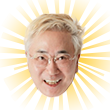
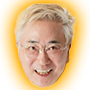
Changed some sprites, fix some functions

diff --git a/Cocos2Dx/Classes/TPMainScreen.cpp b/Cocos2Dx/Classes/TPMainScreen.cpp
@@ -32,10 +32,10 @@ bool TPMainScreen::init(bool isGameOver, int score) {
         CCLog("Score: %i", gameScoreOfNow);
     }
     
-    CocosDenshion::SimpleAudioEngine::sharedEngine()->playBackgroundMusic("", true);
+    CocosDenshion::SimpleAudioEngine::sharedEngine()->playBackgroundMusic("PoppoMelody.mp3", true);
     
     //===================== New UI =========================
-    heartCount = 1;
+    heartCount = TPUser::shareTPUser()->getUserHeart();
     itemShadeArray = new CCArray;
     
     newBackground = CCSprite::create("poppo_background.png");
@@ -48,18 +48,28 @@ bool TPMainScreen::init(bool isGameOver, int score) {
                                       winSize.height / 2 + 50));
     this->addChild(rankingContainer, 101, 101);
     
+    rankingBestContainer = CCSprite::create("poppo_empty_container.png");
+    rankingBestContainer->setPosition(ccp(winSize.width / 2,
+                                          winSize.height / 2 + 50));
+    this->addChild(rankingBestContainer, 102, 186);
+    
+    rankingLine = CCSprite::create("poppo_ranking_line.png");
+    rankingLine->setPosition(ccp(rankingBestContainer->getContentSize().width / 2,
+                                 rankingBestContainer->getContentSize().height / 2 - 100));
+    rankingBestContainer->addChild(rankingLine, 103, 185);
+    
     rankingBestScoreLabel = CCSprite::create("BestScore.png");
-    rankingBestScoreLabel->setPosition(ccp(rankingContainer->getContentSize().width / 4 - 40,
-                                           rankingContainer->getContentSize().height / 5 + 30));
-    rankingContainer->addChild(rankingBestScoreLabel, 103, 182);
+    rankingBestScoreLabel->setPosition(ccp(rankingBestContainer->getContentSize().width / 4 - 40,
+                                           rankingBestContainer->getContentSize().height / 5 + 30));
+    rankingBestContainer->addChild(rankingBestScoreLabel, 103, 182);
     
     char playerName[100];
     sprintf(playerName, "%s", "Player1");
     rankingPlayerName = CCLabelTTF::create(playerName, "Berlin Sans FB", 30,
                                            CCSizeMake(200, 50), kCCTextAlignmentLeft);
-    rankingPlayerName->setPosition(ccp(rankingContainer->getContentSize(). width / 2,
-                                       rankingContainer->getContentSize().height / 5));
-    rankingContainer->addChild(rankingPlayerName, 103, 183);
+    rankingPlayerName->setPosition(ccp(rankingBestContainer->getContentSize(). width / 2,
+                                       rankingBestContainer->getContentSize().height / 5));
+    rankingBestContainer->addChild(rankingPlayerName, 103, 183);
     
     char charBestScore[100];
     sprintf(charBestScore,"%i",TPUser::shareTPUser()->getUserScore());
@@ -67,7 +77,7 @@ bool TPMainScreen::init(bool isGameOver, int score) {
                                                 CCSizeMake(200, 50), kCCTextAlignmentLeft);
     rankingPlayerBestScore->setPosition(ccp(rankingContainer->getContentSize(). width / 2,
                                             rankingContainer->getContentSize().height / 5 - 30));
-    rankingContainer->addChild(rankingPlayerBestScore, 103, 184);
+    rankingBestContainer->addChild(rankingPlayerBestScore, 103, 184);
     
     heartContainer = CCSprite::create("poppo_hearts_container.png");
     heartContainer->setPosition(ccp(rankingContainer->getContentSize().width / 2,
@@ -112,6 +122,7 @@ bool TPMainScreen::init(bool isGameOver, int score) {
     heartContainer->addChild(heartPlus, 103, 109);
     
     heartChargeCount = 5 - heartCount;
+    CCLog("Heart count %i", heartChargeCount);
     sprintf(heartViewChar, "%i", heartChargeCount);
     heartChargedLabel = CCLabelTTF::create(heartViewChar, "", 40);
     heartChargedLabel->setPosition(ccp(heartContainer->getContentSize().width - 200,
@@ -528,6 +539,7 @@ bool TPMainScreen::init(bool isGameOver, int score) {
     
     if (gameOverIsOn) {
         networkContainer->setVisible(false);
+        rankingBestContainer->setVisible(false);
         playBtn->setVisible(false);
         
         scoreContainer = CCSprite::create("poppo_empty_container.png");
@@ -592,7 +604,7 @@ void TPMainScreen::ccTouchEnded(CCTouch *touch, CCEvent *event) {
         }
         
         CCRect chargeBtnRect = TPMainScreen::boundingBoxWorldSpace(heartContainer, heartPlus);
-        if (chargeBtnRect.containsPoint(touchLoc)) {
+        if (chargeBtnRect.containsPoint(touchLoc) && heartCount < 5) {
             chargeOn = true;
             TPMainScreen::setCharge();
         }
@@ -601,6 +613,7 @@ void TPMainScreen::ccTouchEnded(CCTouch *touch, CCEvent *event) {
         if (startRect.containsPoint(touchLoc) && !itemOn && !settingOn && !chargeOn && !tutorialOn && !gameOverIsOn) {
             itemOn = true;
             TPMainScreen::setItem();
+            rankingBestContainer->setVisible(false);
             networkContainer->setVisible(false);
             return;
         }
@@ -613,7 +626,7 @@ void TPMainScreen::ccTouchEnded(CCTouch *touch, CCEvent *event) {
             
             playBtn->setVisible(true);
             networkContainer->setVisible(true);
-            
+            rankingBestContainer->setVisible(true);
             gameOverIsOn = false;
             return;
         }
@@ -709,6 +722,10 @@ void TPMainScreen::ccTouchEnded(CCTouch *touch, CCEvent *event) {
             heartCount = 5;
             TPUser::shareTPUser()->setUserHeart(heartCount);
             TPMainScreen::setupHearts();
+            
+            heartChargeCount = 5 - heartCount;
+            sprintf(heartViewChar, "%i", heartChargeCount);
+            heartChargedLabel->setString(heartViewChar);
         }
         
         CCRect chargeCcl2Rect = TPMainScreen::boundingBoxWorldSpace(chargeWin3, chargeCclBtn3);
@@ -1037,6 +1054,7 @@ void TPMainScreen::setCharge() {
 void TPMainScreen::setupHearts() {
     heartCount = TPUser::shareTPUser()->getUserHeart();
     heartChargeCount = 5 - heartCount;
+    
     //Set texture only works if the sprite is created with some texture already
     if (heartCount == 5) {
         heartTP1->setTexture(CCTextureCache::sharedTextureCache()->addImage("poppo_heart.png"));
@@ -1166,7 +1184,7 @@ CCTableViewCell* TPMainScreen::tableCellAtIndex(CCTableView *table, unsigned int
     cell->addChild(avatar);
     Gamer *gamer = (Gamer*)listGamer->objectAtIndex(index);
     CCString *scoreGamer = CCString::createWithFormat("%d",gamer->getScore());
-    CCLabelTTF *scoreLabel = CCLabelTTF::create(scoreGamer->getCString(), "Helvetica",
+    CCLabelTTF *scoreLabel = CCLabelTTF::create(scoreGamer->getCString(), "Berlin Sans FB",
                                                 50.0, CCSizeMake(300, 70), kCCTextAlignmentLeft);
     
     scoreLabel->setColor(ccWHITE);
@@ -1174,7 +1192,7 @@ CCTableViewCell* TPMainScreen::tableCellAtIndex(CCTableView *table, unsigned int
     scoreLabel->setTag(151);
     cell->addChild(scoreLabel);
     
-    CCLabelTTF *nameLabel = CCLabelTTF::create(gamer->getName().c_str(), "Helvetica",
+    CCLabelTTF *nameLabel = CCLabelTTF::create(gamer->getName().c_str(), "Berlin Sans FB",
                                                30.0, CCSizeMake(200, 50), kCCTextAlignmentLeft);
     nameLabel->setColor(ccWHITE);
     nameLabel->setPosition(ccp(240, -130));

diff --git a/Cocos2Dx/Classes/TakasuPoppo.cpp b/Cocos2Dx/Classes/TakasuPoppo.cpp
@@ -334,7 +334,7 @@ void TakasuPoppo::update(float dt) {
     if (controlable) {
         if (swipeRight && swape && !runningAfter) {
             
-            TPObjectExtension* exd = mainSprite;
+            //TPObjectExtension* exd = mainSprite;
             move =false;
             TakasuPoppo::swipedRight(mainSprite);
             swipeRight = false;
@@ -348,7 +348,7 @@ void TakasuPoppo::update(float dt) {
         }
         if (swipeLeft && swape && !runningAfter) {
             
-            TPObjectExtension* exd = mainSprite;
+            //TPObjectExtension* exd = mainSprite;
             move =false;
             TakasuPoppo::swipedLeft(mainSprite);
             swipeRight = false;
@@ -362,7 +362,7 @@ void TakasuPoppo::update(float dt) {
         }
         if (swipeUp && swape && !runningAfter) {
             
-            TPObjectExtension* exd = mainSprite;
+            //TPObjectExtension* exd = mainSprite;
             move =false;
             TakasuPoppo::swipedUp(mainSprite);
             swipeRight = false;
@@ -375,7 +375,7 @@ void TakasuPoppo::update(float dt) {
         }
         if (swipeDown && swape && !runningAfter) {
             
-            TPObjectExtension* exd = mainSprite;
+            //TPObjectExtension* exd = mainSprite;
             TakasuPoppo::swipedDown(mainSprite);
             move =false;
             swipeRight = false;

diff --git a/Cocos2Dx/Classes/TPTouch.cpp b/Cocos2Dx/Classes/TPTouch.cpp
@@ -21,7 +21,7 @@ void TakasuPoppo::ccTouchesBegan(CCSet *touches, CCEvent *event) {
         CCPoint point = TakasuPoppo::tileCoorForPosition(touchLoc);
         if (point.x >= 0 || point.x <= 6 ||
             point.y >= 0 || point.y <= 6) {
-            returnNormalSprite(mainSprite);
+            //returnNormalSprite(mainSprite);
             
             TPObjectExtension *exObject = TakasuPoppo::coorToExObj(TakasuPoppo::tileCoorForPosition(touchLoc));
             if (exObject != NULL && exObject->getSprite() != NULL && exObject->getID() != 7) {
@@ -124,7 +124,7 @@ void TakasuPoppo::ccTouchesBegan(CCSet *touches, CCEvent *event) {
                     move = true;
                     swape = true;
                     mainPoint.setPoint(point.x, point.y);
-                    returnNormalSprite(mainEx);
+                    //returnNormalSprite(mainEx);
                 }
             }
             else {

diff --git a/Cocos2Dx/Classes/TPMatch.cpp b/Cocos2Dx/Classes/TPMatch.cpp
@@ -925,7 +925,7 @@ void TakasuPoppo::createSpecialBlock(TPObjectExtension *exObj, int blockType){
                 str = "Poppo" + str + "B.png";
                 break;
             case HBB_BLOCK_TYPE:
-                str = "Poppo" + str + "HyperC.png";
+                str = "Poppo" + str + "C.png";
                 break;
             case MB1_BLOCK_TYPE:
                 str = "Poppo" + str + "Mission1.png";

diff --git a/Cocos2Dx/Classes/TPMainScreen.h b/Cocos2Dx/Classes/TPMainScreen.h
@@ -42,7 +42,9 @@ private:
     CCSprite *newBackground;
     CCSprite *rankingContainer;
     
+    CCSprite *rankingBestContainer;
     CCSprite *rankingBestScoreLabel;
+    CCSprite *rankingLine;
     CCLabelTTF *rankingPlayerName;
     CCLabelTTF *rankingPlayerBestScore;
     

diff --git a/Cocos2Dx/TPDefinition.h b/Cocos2Dx/TPDefinition.h
@@ -38,7 +38,7 @@
 
 #define HBC_SCALE_DELAY 0.2
 
-#define PLAY_TIME 600
+#define PLAY_TIME 6
 #define GAUGE_PERIOD 2 // after this period, if no more combo is created, minus gauge combo by 1
 // score system
 #define SCORE_THREE  200
